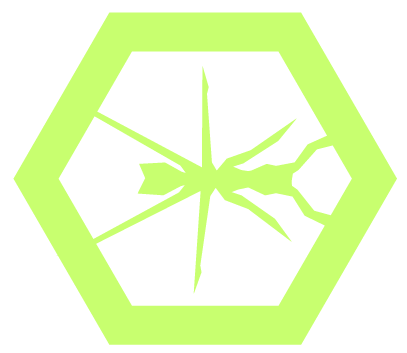
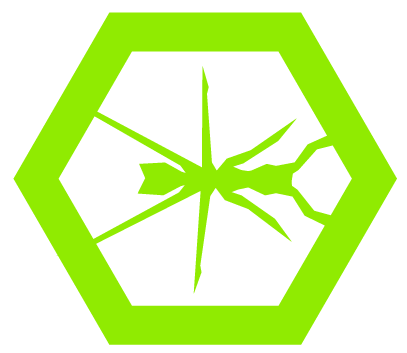
_-Fixed problem with backgrounder only being able to load a single video. You need to make sure to capture.release() before you ever capture.open() a new file
--Added icons for all core parts

diff --git a/Backgrounder/src/backgrounder.cpp b/Backgrounder/src/backgrounder.cpp
@@ -76,6 +76,7 @@ void Backgrounder::on_loadVideoButton_clicked()
         lastpath=videopath;
         ui->videoFileLabel->setText("..."+videopath.right(50));
         loadVideo();
+        qDebug()<<"Load new file";
     }
     else{
         videopath=nopath;
@@ -86,9 +87,15 @@ void Backgrounder::on_loadVideoButton_clicked()
 
 void Backgrounder::loadVideo(){
 
+    qDebug()<<"--In load video-";
+
 
     //Open all Image Assets and check to see if they are OK before creating a new ICPTRACKER object
     if(checkVideo()){
+        qDebug()<<"--Check Video OK!-";
+        capture.release();
+        capture.open(videopath.toStdString());
+
         //All items checked out OK continue!
         updatedisplay_videoin(0);
         TOTALVIDEOFRAMES=capture.get(CV_CAP_PROP_FRAME_COUNT)-1;
@@ -108,6 +115,7 @@ void Backgrounder::loadVideo(){
 
     }
     else{
+        qDebug()<<"--Check Video FALSE-";
 
     }
 }
@@ -162,6 +170,7 @@ bool Backgrounder::checkVideo(){
     QString notprepared="<b>Not Ready!</b>  <br><br><i>Please choose a...</i> <br>";
     if (videopath==nopath){
         notprepared= notprepared+"   Video Source<br>";
+        everythingok = false;
         return everythingok;
     }
 
@@ -178,9 +187,16 @@ bool Backgrounder::checkVideo(){
 
         colour="red";
         //Video Capture
-        if(capture.open(videopath.toStdString()))
+        if(capture.open(videopath.toStdString())){
             return everythingok;
-        else return false;
+            qDebug()<<"Everything is OK";
+        }
+        else{
+
+            return false;
+            qDebug()<<"Everything is BAD could not capture.open";
+
+        }
     }
 }
 

diff --git a/ManyTrack/ManyTrack_SRC/Track.cpp b/ManyTrack/ManyTrack_SRC/Track.cpp
@@ -152,7 +152,7 @@ double fitnessin;
     qDebug()<<"Removed Points from Track  "<<totalRemovedPoints;
 
     /// For Debugging we can visualize the Pointcloud
-             /**/
+             /**
                 pcl:: PointCloud<PointXYZRGB>::Ptr dataPTS_cloud_ptr (new pcl::PointCloud<PointXYZRGB> (dataPTS_cloud));
               //  copyPointCloud(modelPTS_cloud,)
                 transformPointCloud(modelPTS_clouds[modelIndex].cloud,modelPTS_clouds[modelIndex].cloud,T);
@@ -354,7 +354,7 @@ Eigen::Matrix4f Track::calcTransformPCLRGB(pcl::PointCloud<pcl::PointXYZRGB> dat
 
      pcl::registration::TransformationEstimation2D<PointXYZRGB, PointXYZRGB>::Ptr trans_2D (new  pcl::registration::TransformationEstimation2D<PointXYZRGB, PointXYZRGB>);
     //online guy uses this:  typedef ConstrainedSVD<pcl::PointXYZ, pcl::PointXYZ> constSVD;  boost::shared_ptr<constSVD> constSVDptr(new constSVD);
-     icp.setTransformationEstimation (trans_2D);
+//     icp.setTransformationEstimation (trans_2D);
 
 //   pcl::registration::TransformationEstimationSVD
 //    icp.setTransformationEstimation();

diff --git a/ManyTrack/ManyTrack_SRC/ICPTracker.cpp b/ManyTrack/ManyTrack_SRC/ICPTracker.cpp
@@ -753,8 +753,8 @@ vector<Model> ICPTracker::modelFilesToMAT(QString modelFolderPath){
         imgAndPath.filepath=fullpath;
         imgAndPath.rotated = 0.0;
 
-        namedWindow("0");
-        imshow("0", modelImg);
+//        namedWindow("0");
+//        imshow("0", modelImg);
 
         output.push_back(imgAndPath);
 
@@ -771,8 +771,8 @@ vector<Model> ICPTracker::modelFilesToMAT(QString modelFolderPath){
         //Rotate the whole thing 180Degrees
         modelImgF = rotateImage(modelImgF, 180.0);//Rotate full image about this center 180 degrees
 
-        namedWindow("180");
-        imshow("180", modelImgF);
+//        namedWindow("180");
+//        imshow("180", modelImgF);
 
         imgAndPathF.img = modelImgF;
         imgAndPathF.name=current+"_180";
